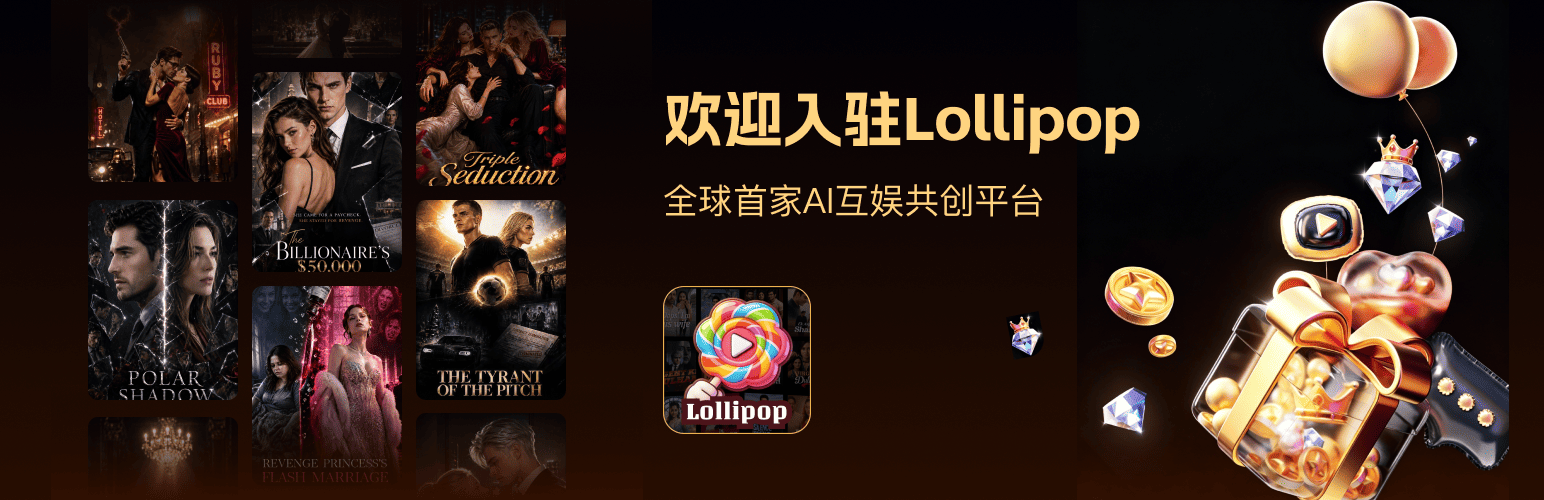
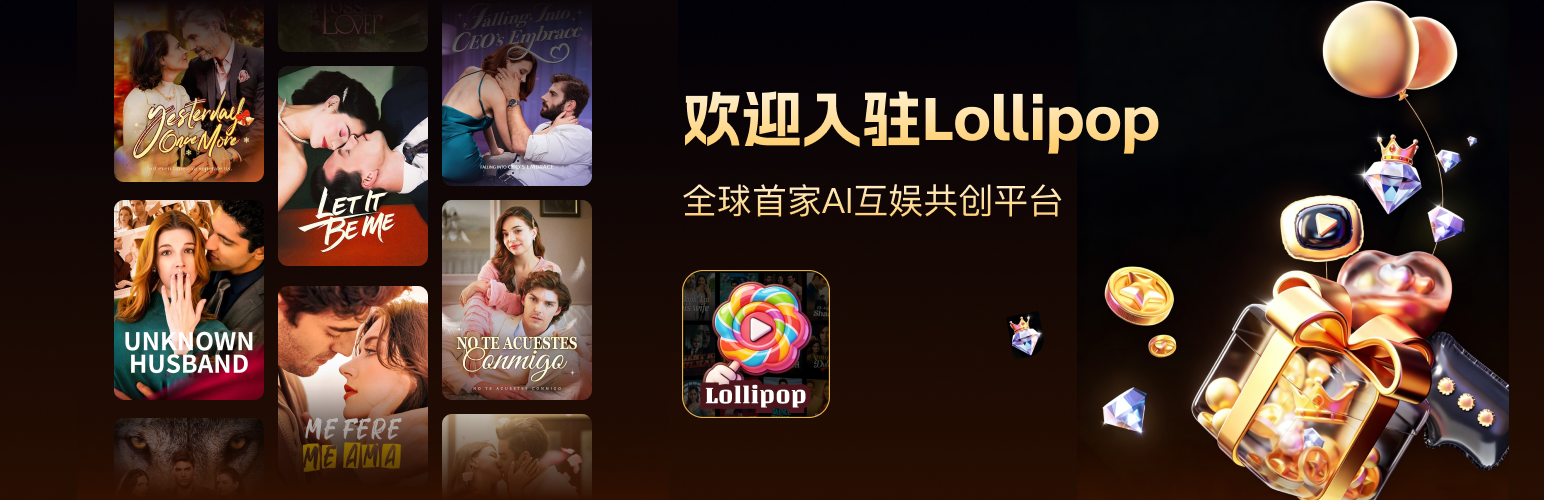
fix(distribution): 对齐发行入驻多语言横幅
恢复 Figma 原图尺寸及卡片间距；简中和英文使用完整切图，繁中与葡语保留本地化文案；补充横幅资源与语言分支回归测试。

diff --git a/src/app/distribution/pages/EnrollPage.tsx b/src/app/distribution/pages/EnrollPage.tsx
@@ -661,30 +661,38 @@ function FormView(props: {
   });
 
   return (
-    <div className="max-w-[672px] mx-auto px-6 py-10">
+    <div className="w-full max-w-[720px] mx-auto px-6 py-10">
       {/* 申请表单卡片（figma 15237-33706：#090101 + 24px 内边距 + 16px 圆角） */}
       <div className="bg-[#090101] rounded-[16px] p-6">
-        {/* 简体中文与英文使用设计资源；其余语言保留前端 i18n 文案层。 */}
-        <div className="relative -mx-6 -mt-6 mb-6 aspect-[1544/500] overflow-hidden rounded-t-[16px]">
+        {/* 简中与英文直接使用完整图片；繁中与葡语只覆盖原图文案区。 */}
+        <div className="relative -mx-6 -mt-6 mb-2 aspect-[1544/500] overflow-hidden rounded-t-[16px]">
           {directBanner ? (
             <img
               src={directBanner}
               alt={t.bannerTitle}
-              className="block w-full select-none pointer-events-none"
+              className="absolute inset-0 block h-full w-full select-none pointer-events-none"
             />
           ) : (
             <>
               <img
+                src={welcomeBannerCn}
+                alt=""
+                aria-hidden="true"
+                className="absolute inset-0 block h-full w-full select-none pointer-events-none"
+              />
+              {/* 无字底图与 Figma 原图在文案区背景一致，仅裁出该区域覆盖简中文字。 */}
+              <img
                 src={welcomeBanner}
                 alt=""
                 aria-hidden="true"
-                className="absolute inset-0 block h-full w-full object-cover select-none pointer-events-none"
+                className="absolute inset-0 block h-full w-full select-none pointer-events-none"
+                style={{ clipPath: "inset(16% 23.575% 53% 42.746%)" }}
               />
-              <div className="enroll-banner-copy absolute left-[44.5%] top-[8%] z-10 w-[37%] text-[#ffd480]">
-                <p className={isChineseBannerCopy ? "whitespace-nowrap text-[14px] font-semibold leading-[1.2] sm:text-[30px]" : "whitespace-nowrap text-[11px] font-semibold leading-[1.2] sm:text-[20px]"}>
+              <div className="enroll-banner-copy absolute left-[44.3%] top-[18%] z-10 w-[37%] text-[#ffd480]">
+                <p className={isChineseBannerCopy ? "whitespace-nowrap text-[12px] font-semibold leading-[1.2] sm:text-[24px]" : "text-[10px] font-semibold leading-[1.2] sm:text-[20px]"}>
                   {t.bannerTitle}
                 </p>
-                <p className={isChineseBannerCopy ? "mt-[7%] whitespace-nowrap text-[10px] font-normal leading-[1.2] sm:text-[18px]" : "mt-[5%] text-[7px] font-normal leading-[1.2] sm:text-[9px]"}>
+                <p className={isChineseBannerCopy ? "mt-2 whitespace-nowrap text-[8px] font-normal leading-[1.2] sm:text-[14px]" : "mt-2 text-[7px] font-normal leading-[1.2] sm:text-[12px]"}>
                   {t.bannerSubtitle}
                 </p>
               </div>
